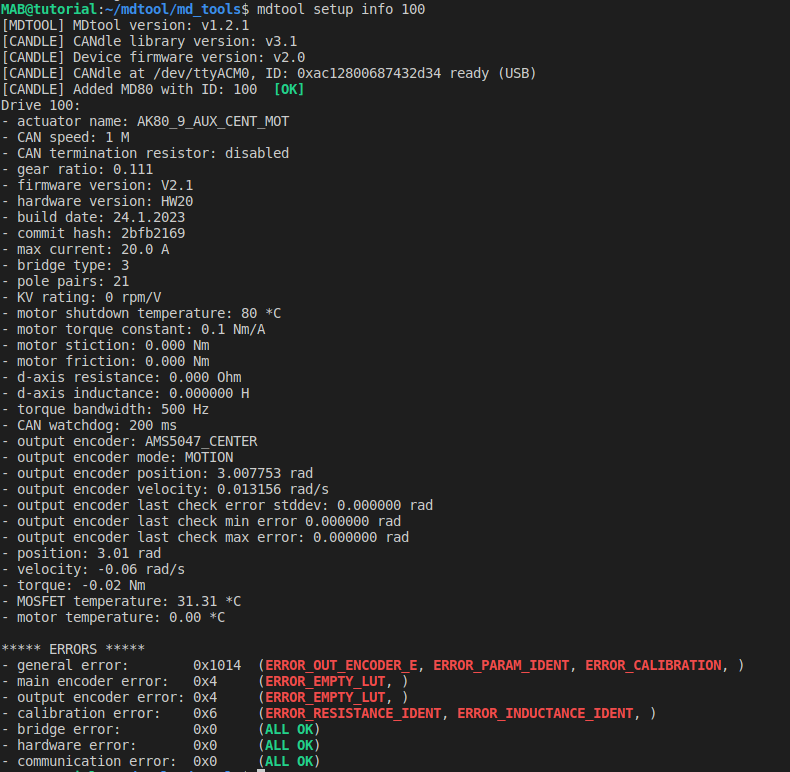
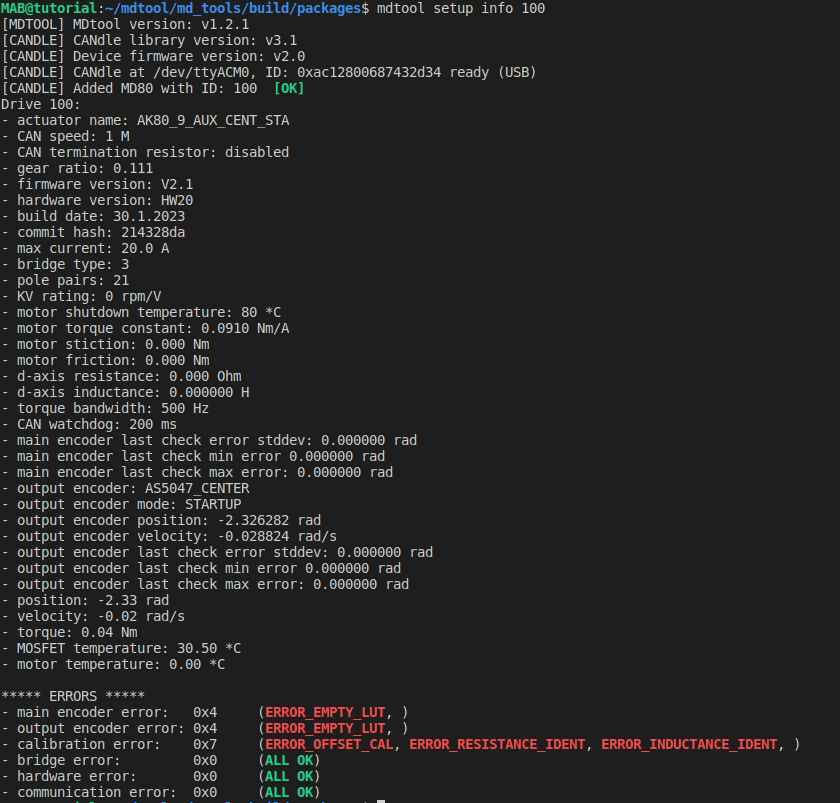
fix: general fixes

Changed region(s): [[0.0, 0.0, 0.6684, 1.0], [0.3038, 0.8394, 0.9418, 1.0], [0.4253, 0.9948, 0.4557, 1.0]]

diff --git a/MD80.md b/MD80.md
@@ -5,7 +5,7 @@
 MD80 is a brushless motor controller. It can work with a variety of motors and reducers that can be precisely matched to the users’ specifications. All MD80 variants are using an advanced motor control algorithm (FOC), a high-resolution encoder, a high-speed FDCAN communication bus, and a common communication interface. The servo drives have an integrated high-frequency position PID controller, velocity PID controller, and impedance controller, as well as a direct torque controller. MD80 also features a daisy-chaining mechanism, for easy connection of many drives in a single control network.
 
 ```{hint}
-You can easily check your MD80 version using the `mdtool setup info` command.
+You can easily check your MD80 version using the [`mdtool setup info`](mdtool_setup_info) command.
 ```
 (ratings)=
 **General parameters table for MD80 HW1.1, HV1.3 and older:**
@@ -313,7 +313,7 @@ Let’s start with the max current limit:
 :class: no-scaled-link
 ```
 
-This setting limits the maximum current (and thus torque) the motor can output. It is the last user-configurable limit in the control scheme. The maximum current is set using the `mdtool config current` command, and by default, it is usually set to 10A. This setting can be saved in the non-volatile memory so that it is always loaded on the actuator power-up. To estimate the maximum current setting for a particular motor, you should use the following formula:
+This setting limits the maximum current (and thus torque) the motor can output. It is the last user-configurable limit in the control scheme. The maximum current is set using the [`mdtool config current`](mdtool_config_current) command, and by default, it is usually set to 10A. This setting can be saved in the non-volatile memory so that it is always loaded on the actuator power-up. To estimate the maximum current setting for a particular motor, you should use the following formula:
 
 $$I [A] = \frac{\tau [Nm] \frac{1}{G_r}}{K_t[\frac{Nm}{A}]}$$
 
@@ -339,7 +339,7 @@ $ I [A] \approx  2.44A $
 Usually this limit should be set to the highest peak torque that is allowed in the system so that it doesn't limit the actuator performance.
 ```
 
-Now, to put this value into the MD80 please refer to `mdtool config current` command. Don’t forget to save it with the `mdtool config save` command. 
+Now, to put this value into the MD80 please refer to [`mdtool config current`](mdtool_config_current) command. Don’t forget to save it with the [`mdtool config save`](mdtool_config_save) command. 
 
 The other limits are the max torque and max velocity parameters, which are set from the user script level:
 
@@ -358,7 +358,7 @@ if the torque bandwidth is set to a low value it is possible to read torque valu
 
 ## FDCAN Watchdog
 
-MD80 features an FDCAN Watchdog Timer. This timer will shut down the drive stage when no FDCAN frame has been received in a specified time. This is to protect the drive and its surroundings in an event of loss of communications, for example by physical damage to the wiring. By default, the watchdog is set to 250ms. This time can be set to any value in the range of 1 to 2000ms using `mdtool config can` command. When the watchdog is set to 0, it will disable the timer, however, this can lead to dangerous situations, and it is not a recommended way of operating MD80. 
+MD80 features an FDCAN Watchdog Timer. This timer will shut down the drive stage when no FDCAN frame has been received in a specified time. This is to protect the drive and its surroundings in an event of loss of communications, for example by physical damage to the wiring. By default, the watchdog is set to 250ms. This time can be set to any value in the range of 1 to 2000ms using [`mdtool config can`](mdtool_config_can) command. When the watchdog is set to 0, it will disable the timer, however, this can lead to dangerous situations, and it is not a recommended way of operating MD80. 
 
 ```{warning}
 we do not recommend disabling the CAN watchdog timer.
@@ -370,7 +370,7 @@ MD80 is equipped with sensors that allow for measuring the motor position, veloc
 
 ### Position 
 
-To measure the position of the rotor an MD80 uses an internal magnetic encoder. The resolution of the encoder is 14 bits (16384 counts per rotation). The drive aggregates all the measurements to provide **multi-rotation positional feedback**. The reference position (0.0 rad) is set by the user and stored in the non-volatile memory. Please see `mdtool config zero` command for more information on how to set the desired zero position. 
+To measure the position of the rotor an MD80 uses an internal magnetic encoder. The resolution of the encoder is 14 bits (16384 counts per rotation). The drive aggregates all the measurements to provide **multi-rotation positional feedback**. The reference position (0.0 rad) is set by the user and stored in the non-volatile memory. Please see [`mdtool config zero`](mdtool_config_zero) command for more information on how to set the desired zero position. 
 
 ```{note}
 When using geared actuators with gear ratios above 1:1 it is not possible to determine the position after startup unambiguously, since the motor completes multiple rotations per single rotation of the output shaft. For example, for a 2:1 gearbox, there are two sections within a single output shaft rotation where the motor shaft is in the same position. Unless the motor is placed in the wrong “section” during startup the absolute encoder functionality will work. To deal with this issue please see the [output encoder](output_encoder).
@@ -401,7 +401,7 @@ Currently we support one encoder type with two placement configurations:
 * AS5047 placed non-axially together with a diametrically magnetized ring magnet
 
 
-The output encoder configuration is performed in the motor config files and saved to the MD80 using the `mdtool setup motor` command. There are only two parameters used in output encoder setup: 
+The output encoder configuration is performed in the motor config files and saved to the MD80 using the [`mdtool setup motor`](mdtool_setup_motor) command. There are only two parameters used in output encoder setup: 
 
 ```
 [output encoder]
@@ -441,7 +441,7 @@ where:
     motion based on <b><font color="#008000">main encoder</font></b>,
 ```
 
-Not all modes are recommended on every encoder. The non-axially placed AS5047 encoder is inherently more noisy and thus we recommend using it only in STARTUP mode. Please refer to the table below: 
+Not all modes are recommended for every encoder. The non-axially placed AS5047 encoder is inherently more noisy and less accurate and thus we recommend using it only in STARTUP mode. Please refer to the table below: 
 
 ```{list-table}
 :header-rows: 1
@@ -481,7 +481,7 @@ Steps to add an external encoder to the MD80 setup:
 :class: no-scaled-link
 ```
 
-You can confirm the setup using the `mdtool setup info` command to make sure all parameters are correct: 
+You can confirm the setup using the [`mdtool setup info`](mdtool_setup_info) command to make sure all parameters are correct: 
 
 ```{figure} images/mdtool_setup_info_errors.png
 :alt: candle
@@ -493,9 +493,10 @@ You can confirm the setup using the `mdtool setup info` command to make sure all
 At this point some errors will be present as the setup is not yet calibrated. 
 ```
 
-* Calibrate the MD80 using `mdtool setup calibration` command 
-* Calibrate the output encoder using `mdtool setup calibration_aux` command
-* Use the `mdtool setup info` command to make sure there are no errors. 
+* Calibrate the MD80 using [`mdtool setup calibration`](mdtool_setup_calibration) command 
+* Calibrate the output encoder using [`mdtool setup calibration_out`](mdtool_setup_calibration_out) command
+* Test the encoders using [`mdtool test encoder`](mdtool_test_encoder) command.
+* Use the [`mdtool setup info`](mdtool_setup_info) command to make sure there are no errors and the test results (min, max and stddev errors) are within your expectations.
 * The external encoder is ready to use! For more information on external encoder parameters please see the [output encoder calibration](output_encoder_calibration) section.
 
 (calibration)=
@@ -504,7 +505,7 @@ At this point some errors will be present as the setup is not yet calibrated.
 Calibration should be performed when the MD80 controller is first mounted to the motor or when anything changes in the motor-controller assembly. It has three main stages during which specific parameters of the setup are measured and saved. 
 
 ```{note}
-The calibration has to be performed on a motor that is free to rotate with no load attached to its output shaft. If the calibration fails, you will see errors when executing the mdtool setup info command. If the failure is essential to the motor’s operation the MD80 will remain disabled till the next calibration attempt.
+The calibration has to be performed on a motor that is free to rotate with no load attached to its output shaft. If the calibration fails, you will see errors when executing the [`mdtool setup info`](mdtool_setup_info) command. If the failure is essential to the motor’s operation the MD80 will remain disabled till the next calibration attempt.
 ```
 
 ### Pole pairs detection
@@ -522,7 +523,7 @@ Motor parameters - resistance and inductance are measured in order to calculate 
 ### Torque bandwidth
 
 Even though the torque command on MD80 controllers seems to be applied instantaneously, in reality, it’s not the case. As in every system, there’s a response to the command which depends on the system itself and the controller gains. A parameter called bandwidth was introduced to describe how fast the output of a system reacts to the changing input. Calibrating the motor for a certain torque bandwidth requires measuring motor parameters. This happens in the last calibration stage and manifests as an audible sound (beep). 
-The torque bandwidth default setting is set using the motor config file. It can be set to anywhere from 50 Hz to 2.5 kHz, however it is important to note that higher torque bandwidth causes a higher audible noise level. Please see the `mdtool setup calibration` command for more details on calibrating the actuators. 
+The torque bandwidth default setting is set using the motor config file. It can be set to anywhere from 50 Hz to 2.5 kHz, however it is important to note that higher torque bandwidth causes a higher audible noise level. Please see the [`mdtool setup calibration`](mdtool_setup_calibration) command for more details on calibrating the actuators. 
 When the system that you’re designing is a highly dynamic one, you want the torque bandwidth to be higher than the default setting of 50 Hz. Start by calibrating the drives for 1 kHz torque bandwidth, and if you see this is still not enough you can increase it further.  
 
 (output_encoder_calibration)=
@@ -543,7 +544,7 @@ In order to run the routine use the mdtool setup calibration_aux command. After 
 :class: no-scaled-link
 ```
 
-The output encoder parameters are rather straightforward, except the “output encoder last check” errors. These values are filled during the output encoder check routine, that can be run using `mdtool test check_aux command`. These params represent the output encoder errors (max, min and standard deviation) with respect to the main encoder mounted on the PCB. This means that if there are large inaccuracies during the calibration, or the output encoder moves in your setup, you can always check how accurate it is by running the check_aux routine.
+The output encoder parameters are rather straightforward, except the “output encoder last check” errors. These values are filled during the output encoder check routine, that can be run using [`mdtool test encoder output`](mdtool_test_encoder). These params represent the output encoder errors (max, min and standard deviation) with respect to the main encoder mounted on the PCB. This means that if there are large inaccuracies during the calibration, or the output encoder moves in your setup, you can always check how accurate it is by running the check_aux routine.
 
 Example errors for AS5047_CENTER:
 
@@ -563,7 +564,7 @@ Example errors for AS5047_OFFAXIS:
 :class: no-scaled-link
 ```
 
-As can be seen the non-axial encoder features larger errors, and thus can be utilized only for initial position determination rather than output shaft control. In case the errors get too large they will turn yellow after running `mdtool test check_aux` command indicating there might be a problem with your setup:
+As can be seen the non-axial encoder features larger errors, and thus can be utilized only for initial position determination rather than output shaft control. In case the errors get too large they will turn yellow after running [`mdtool test encoder output`](mdtool_test_encoder) command indicating there might be a problem with your setup:
 
 ```{figure} images/errors_yellow.png
 :alt: candle

diff --git a/Software.md b/Software.md
@@ -98,10 +98,12 @@ For the command prompt to work after the installation you have to restart the te
 
 ### Commands
 
+(mdtool_bus)=
 #### `mdtool bus <bus> <device>`
 
 MDtool is able to work with CANdle and CANdle HAT. This is why before the first use it has to be configured for a particular communication bus. Use the bus command to set it to USB, SPI, or UART, based on which device you own. The default bus setting is USB. You don't have to repeat this setting unless you want to change the current communication bus. The device parameter is optional and can be used in case of the UART and SPI bus, if the default device (/dev/spidev0.0 in case of SPI or /dev/ttyAMA0 in case of UART) is not suitable for your application. 
 
+(mdtool_ping)=
 #### `mdtool ping <baud>`
 
 MDtool is able to discover the drives that are connected to the CAN bus. You can ping the drives at a specific speed (1M/2M/5M/8M) or just use the ‘all’ keyword for pinging all speeds in one go. 
@@ -110,6 +112,7 @@ MDtool is able to discover the drives that are connected to the CAN bus. You can
 CANdle does not support working with drives configured with different CAN speeds on the same CAN bus – please make sure when “mdtool ping all” command is executed, all discovered drives lie in a single speed category.
 ```
 
+(mdtool_config_zero)=
 #### `mdtool config zero <ID>`
 
 This command sets the current motor position to zero - from the moment this command is called all encoder measurements are referenced from the current position. 
@@ -118,6 +121,7 @@ This command sets the current motor position to zero - from the moment this comm
 This setting has to be saved to be preserved after power down! Please see the config save <ID> command.
 ```
 
+(mdtool_config_can)=
 #### `mdtool config can <current ID> <new ID> <baud> <watchdog period [ms]> <termination>`
 
 This command is used to change MD80’s parameters such as CAN ID, CAN speed, and CAN watchdog.
@@ -132,7 +136,7 @@ Software-controlled termination is available since version HW V2.0. It is an opt
 ```{note}
 This setting has to be saved to be preserved after power down! Please see the mdtool config save <ID> command.
 ```
-
+(mdtool_config_current)=
 #### `mdtool config current <ID> <current>`
 
 This command is used to set the maximum phase current that is allowed to flow through the motor when high torques are commanded. By default, the maximum current is set to a rather low value that will not lead to motor or driver burnout. However, this also limits the motor's maximum torque capabilities. Using the config current command one can increase the maximum current. The absolute maximum value is 40 A. 
@@ -144,6 +148,7 @@ The guarantee does not include burnout actions due to too high current settings.
 This setting has to be saved to be preserved after power down! Please see the config save <ID> command.
 ```
 
+(mdtool_config_bandwidth)=
 #### `mdtool config bandwidth <ID> <torque bandwidth in Hz>`
 
 This command can be used to change the torque bandwidth without recalibrating the actuator. For more information on the torque bandwidth please see the section about [calibration](calibration). 
@@ -152,22 +157,27 @@ This command can be used to change the torque bandwidth without recalibrating th
 This setting has to be saved to be preserved after power down! Please see the config save <ID> command.
 ```
 
+(mdtool_config_save)=
 #### `mdtool config save <ID>`
 
 For the config commands to take action after the next power cycle a save command has to be executed. This command saves the current drive’s settings to the non-volatile FLASH memory.
 
+(mdtool_setup_calibration)=
 #### `mdtool setup calibration <ID>`
 
 This command runs the basic calibration routine. During calibration, the drive has to be able to rotate freely and the power supply should be able to deliver at least 1A of current. For more detail on the calibration process please refer to the calibration section.
 
+(mdtool_setup_calibration_out)=
 #### `mdtool setup calibration_out <ID>`
 
 This command runs the output encoder calibration routine. During output encoder calibration, the drive has to be able to rotate for at least two full rotations of the output shaft and the power supply should be able to deliver at least 1A of current. For more detail on the calibration process please refer to the [output encoder calibration](output_encoder_calibration) section.
 
+(mdtool_setup_motor)=
 #### `mdtool setup motor <*.cfg> <ID>` 
 
 This command is used to write a new motor config. For more information please see the section Configuring MD80 controller for a new motor.
 
+(mdtool_setup_info)=
 #### `mdtool setup info <ID>`
 This command is used to read the motor internal parameters. An example command output might look like this:
 
@@ -179,18 +189,23 @@ This command is used to read the motor internal parameters. An example command o
 ```
 Reading the errors is the easiest way of debugging possible problems with the drive. For errors description please visit the [error codes](error_codes) section. 
 
+(mdtool_blink)=
 #### `mdtool blink <ID>`
 This command is mostly used to find an MD80 drive on a long CAN bus using its ID – the command makes the drive flash its onboard LEDs for easy identification.
 
+(mdtool_test_move)=
 #### `mdtool test move <ID> <position>`
 This command is used to test the actuator movement in impedance mode. It helps to assess if the calibration was successful and if there are no issues visible to the naked eye. The position argument is always the amount of position for the motor to be moved from the current position. 
 
+(mdtool_test_latency)=
 #### `mdtool test latency <baudrate>`
 This command is used to test the PC<>CANdle communication speed which greatly affects the PC<>MD80 communication speed. The higher the measured frequency the better. 
 
+(mdtool_test_encoder)=
 #### `mdtool test encoder <type> <ID>`
-This command is used to check how accurate a praticular encoder was calibrated. The <type> argument can be either "main" for onboard encoder, or <output> for output encoder. This command runs a routine that makes one full rotation of the shaft (either motor or output shaft, depending on the chosen encoder type) and after completing fills up the max, min and standard deviation errors that can be accessed using the `mdtool setup info` command. 
+This command is used to check how accurate a praticular encoder was calibrated. The 'type' argument can be either 'main' for onboard encoder, or 'output' for output encoder. This command runs a routine that makes one full rotation of the shaft (either motor or output shaft, depending on the chosen encoder type) and after completing fills up the max, min and standard deviation errors that can be accessed using the [`mdtool setup info`](mdtool_setup_info) command. 
 
+(mdtool_encoder)=
 #### `mdtool encoder <ID>`
 This command is useful when one wants to measure the position of the actuator in the current setup (without writing a custom script). After the command is executed the screen shows the current position of the actuator’s shaft and it does so until you press Ctrl + C. 
 
@@ -292,7 +307,7 @@ Informing that for both drives mode has been set correctly.
 
 
 ### Set Zero 
-Often when starting, setting a current position to zero is desired. This can be accomplished with a call to `/zero_md80s service`.
+Often when starting, setting a current position to zero is desired. This can be accomplished with a call to `/zero_md80s` service.
 ```
 rosservice call /zero_md80s "{drive_ids:[200, 800]}"
 ```
@@ -301,7 +316,7 @@ rosservice call /zero_md80s "{drive_ids:[200, 800]}"
 Using services `/enable_md80s` and `/disable_md80s` the drives and the node publishers and subscribers can be enabled/disabled.
 
 ```{note}
-After calling /enable_md80s service, no calls to services other than /disable_md80s should be done.
+After calling `/enable_md80s` service, no calls to services other than `/disable_md80s` should be done.
 ```
 
 After enabling, the node will publish current joint states to `/joint_states` at a frequency dependent on a currently chosen communication bus and speed mode. Joint names are generated based on drive ID, for example, a drive with id 546 will be called `Joint 546`.
@@ -446,7 +461,7 @@ ros2 topic pub /md80/motion_command candle_ros2/MotionCommand "{drive_ids: [200,
 
 ## MD80 update tool - MAB CAN Flasher 
 
-MAB_CAN_Flasher is a console application used to update the MD80 controller software using CANdle. When an update is released our engineers will prepare a MAB_CAN_Flasher application and send it to you. The MD80 firmware is contained in the MAB_CAN_Flasher application itself. To update the firmware connect the CANdle to the PC and the MD80 controller(s), and apply the power supply. You can make sure all the controllers are functional using MDtool and the `mdtool ping all` command before you proceed to update the controllers. After that, you are ready to run the update tool. We highly advise you to call `./MAB_CAN_Flasher -help` command on the first use to get acquainted with the available options.
+MAB_CAN_Flasher is a console application used to update the MD80 controller software using CANdle. When an update is released our engineers will prepare a MAB_CAN_Flasher application and send it to you. The MD80 firmware is contained in the MAB_CAN_Flasher application itself. To update the firmware connect the CANdle to the PC and the MD80 controller(s), and apply the power supply. You can make sure all the controllers are functional using MDtool and the [`mdtool ping all`](mdtool_ping) command before you proceed to update the controllers. After that, you are ready to run the update tool. We highly advise you to call `./MAB_CAN_Flasher -help` command on the first use to get acquainted with the available options.
 
 ### Example use cases 
 `./MAB_CAN_Flasher --id 150 --baud 1M` - update the md80 controller with id equal to 150, which current CAN speed is 1M (the default CAN speed is 1M). Example output of this command for an ak80-64 motor:

diff --git a/FAQ.md b/FAQ.md
@@ -2,7 +2,7 @@
 
 ## How to check if my motor is operating properly
 
-First thing to check is the `mdtool setup info <ID>` command output. If there are no errors (meaning the error field are empty or show 'ALL OK" message) the drive did not detect any issues by itself. The other thing is to make sure that the actuator runs smoothly - such that there is no excessive cogging torque when rotating (you can check it using `mdtool test move` command). The last thing to check is the motion parameters - position velocity and torque. You can check them by looking at the `mdtool encoder <ID>` command output. If any of these quantities look suspicious feel free to contact us using: [contact@mabrobotics.pl](https://www.mabrobotics.pl/contact).
+First thing to check is the [`mdtool setup info`](mdtool_setup_info) command output. If there are no errors (meaning the error field are empty or show 'ALL OK" message) and no parameters are in yellow (indicating suspicious values) the drive did not detect any issues by itself. The other thing is to make sure that the actuator runs smoothly - such that there is no excessive cogging torque when rotating. You can check it using [`mdtool test move`](mdtool_test_move) command - for example by commanding 0 position and moving the rotor by hand - such test makes easy to determine if there is excessive cogging torque. You can also use the Python/C++ examples to rotate the motor. The last thing to check is the motion parameters - position velocity and torque. You can check them by looking at the [`mdtool encoder`](mdtool_encoder) command output. If any of these quantities look suspicious feel free to contact us using: [contact@mabrobotics.pl](https://www.mabrobotics.pl/contact).
 
 ## Motor terminals not soldered properly
 
@@ -28,8 +28,8 @@ Since version HW2.0 a resistor is embedded in the hardware of each MD80 controll
 
 ##  Different FDCAN speeds between actuators
 
-MD80 x CANdle ecosystem is not adopted for working with actuators of different FDCAN baudrates. Trying to control actuators with different baud rates on a common FDCAN bus can cause the communication to fail or not start at all. This is why it is crucial to make sure when you call the `mdtool ping all` command, all discovered MD80 controllers lie in a single baudrate category. If that’s not the case, use the `mdtool config can` command to fix it. 
+MD80 x CANdle ecosystem is not adopted for working with actuators of different FDCAN baudrates. Trying to control actuators with different baud rates on a common FDCAN bus can cause the communication to fail or not start at all. This is why it is crucial to make sure when you call the [`mdtool ping all`](mdtool_ping) command, all discovered MD80 controllers lie in a single baudrate category. If that’s not the case, use the [`mdtool config can`](mdtool_config_can) command to fix it. 
 
 ##  Too-low torque bandwidth setting
 
-When the torque bandwidth is set to a too-low value it can cause the motor to behave improperly in highly dynamic scenarios, for example, impacts. Because with low torque bandwidth, the torque controller gains are set so that the controller is slow, it might not be able to keep up with the changing setpoint value. In order to fix this issue, you can calibrate the motor for a higher torque bandwidth frequency using `mdtool config bandwidth` command. This has a disadvantage connected to it - the higher the bandwidth the more audible noise you will hear coming from the motor.
+When the torque bandwidth is set to a too-low value it can cause the motor to behave improperly in highly dynamic scenarios, for example, impacts. Because with low torque bandwidth, the torque controller gains are set so that the controller is slow, it might not be able to keep up with the changing setpoint value. In order to fix this issue, you can calibrate the motor for a higher torque bandwidth frequency using [`mdtool config bandwidth`](mdtool_config_bandwidth) command. This has a disadvantage connected to it - the higher the bandwidth the more audible noise you will hear coming from the motor.

diff --git a/Ecosystem.md b/Ecosystem.md
@@ -164,7 +164,7 @@ Failing to complete this step may result in failed calibration or/and excessive 
 ```
 * Connect CANdle to the PC using a USB type-C cable. 
 
-* If the current version of your devices is older please always <b> upgrade the MD80 first, then update CANdle, and at the end update the MDtool </b>. For the MDtool installation guide refer to the MDtool section.
+* If the current version of your devices is older please always <b> upgrade the MD80 first, then update CANdle, and at the end update the MDtool </b>. For the MDtool installation guide refer to the [MDtool](mdtool) section.
 
 * Once installed and run the MDtool will create an MDtool directory in <b>~/.config</b>  directory. 
 
@@ -190,7 +190,7 @@ There, you will find a mdtool.ini file which contains factory settings and shoul
 Feel free to add a new *.cfg file for your custom motors in there. Use the already existing files as a reference, especially the AK60-6.cfg which contains some additional comments. 
 
 
-* Check if the MD80 controller can be discovered properly using the `mdtool ping all` command
+* Check if the MD80 controller can be discovered properly using the [`mdtool ping all`](mdtool_ping) command
 
 ```{figure} images/mdtool_ping_all.png
 :alt: candle
@@ -199,7 +199,7 @@ Feel free to add a new *.cfg file for your custom motors in there. Use the alrea
 :class: no-scaled-link
 ```
 
-* To setup the MD80 controller simply call `mdtool setup motor <ID> <*.cfg>` where the ID is the ID that shows up after the `mdtool ping` command is called, and the *.cfg is one of the files existing in the mdtool_motors directory (press tab to list available config files). If anything fails during the process be sure to check your setup and try again. 
+* To setup the MD80 controller simply call [`mdtool setup motor <ID> <*.cfg>`](mdtool_setup_motor) where the ID is the ID that shows up after the [`mdtool ping`](mdtool_ping) command is called, and the *.cfg is one of the files existing in the mdtool_motors directory (press tab to list available config files). If anything fails during the process be sure to check your setup and try again. 
 
 ```{figure} images/mdtool_setup_motor_EX.png
 :alt: candle
@@ -210,7 +210,7 @@ Feel free to add a new *.cfg file for your custom motors in there. Use the alrea
 
 * When succeeded, the motor is set up correctly and now’s the time to calibrate it using mdtool setup calibration <ID>. Please follow the [calibration](calibration) guidelines for more information.
 
-* After the calibration the motor should be ready to use - the best way to find out everything was completed without errors is to check the MD80 info using the command: `mdtool setup info <ID>`. This command lists all the important parameters of the actuator. Errors are shown in red on the bottom if anything has failed during the process.
+* After the calibration the motor should be ready to use - the best way to find out everything was completed without errors is to check the MD80 info using the [`mdtool setup info <ID>`](mdtool_setup_info). This command lists all the important parameters of the actuator. Errors are shown in red on the bottom if anything has failed during the process.
 
 Correct after-calibration mdtool setup info command output may look like this:
 

diff --git a/CANdle.md b/CANdle.md
@@ -67,7 +67,7 @@ When the control code finishes, the `Candle::end()` method should be called. Thi
 
 ## USB bus
 
-The USB bus is the most common one, used in both CANdle and CANdle HAT. This is the slowest communication bus when it comes to performance, due to the non-realtime nature of the host, however, it's the easiest one to set up and test. Since the USB communication interface is not well-suited for real-time applications due to random host delays, the MD80 baudrate is not the limiting factor - you can set it to 1/2/5/8 Mbps and there will be no difference in the update rate. 
+The USB bus is the most common one, used in both CANdle and CANdle HAT. This is one of the slowest communication bus when it comes to performance, due to the non-realtime nature of the host, however, it's the easiest one to set up and test. Since the USB communication interface is not well-suited for real-time applications due to random host delays, the MD80 baudrate is not the limiting factor - you can set it to 1/2/5/8 Mbps and there will be no difference in the update rate. 
 
 ```{hint}
 We highly recommend using the USB bus set up for the first run. 
@@ -75,7 +75,7 @@ We highly recommend using the USB bus set up for the first run.
 
 ## SPI bus
 
-The SPI bus is only available on CANdle HAT devices. It’s the fastest possible bus that can be used to communicate with the MD80 controllers using CANdle HAT. Together with the RT-PATCHED kernel of the system, you will get the best performance. 
+The SPI bus is only available on CANdle HAT devices. It’s the fastest possible bus that can be used to communicate with the MD80 controllers using CANdle HAT. Together with the RT-PATCH'ed kernel of the system, you will get the best performance. 
 
 ```{hint}
 CANdle HAT in SPI mode works with all FDCAN speeds, however, we advise setting it to 8M for the best performance. 
